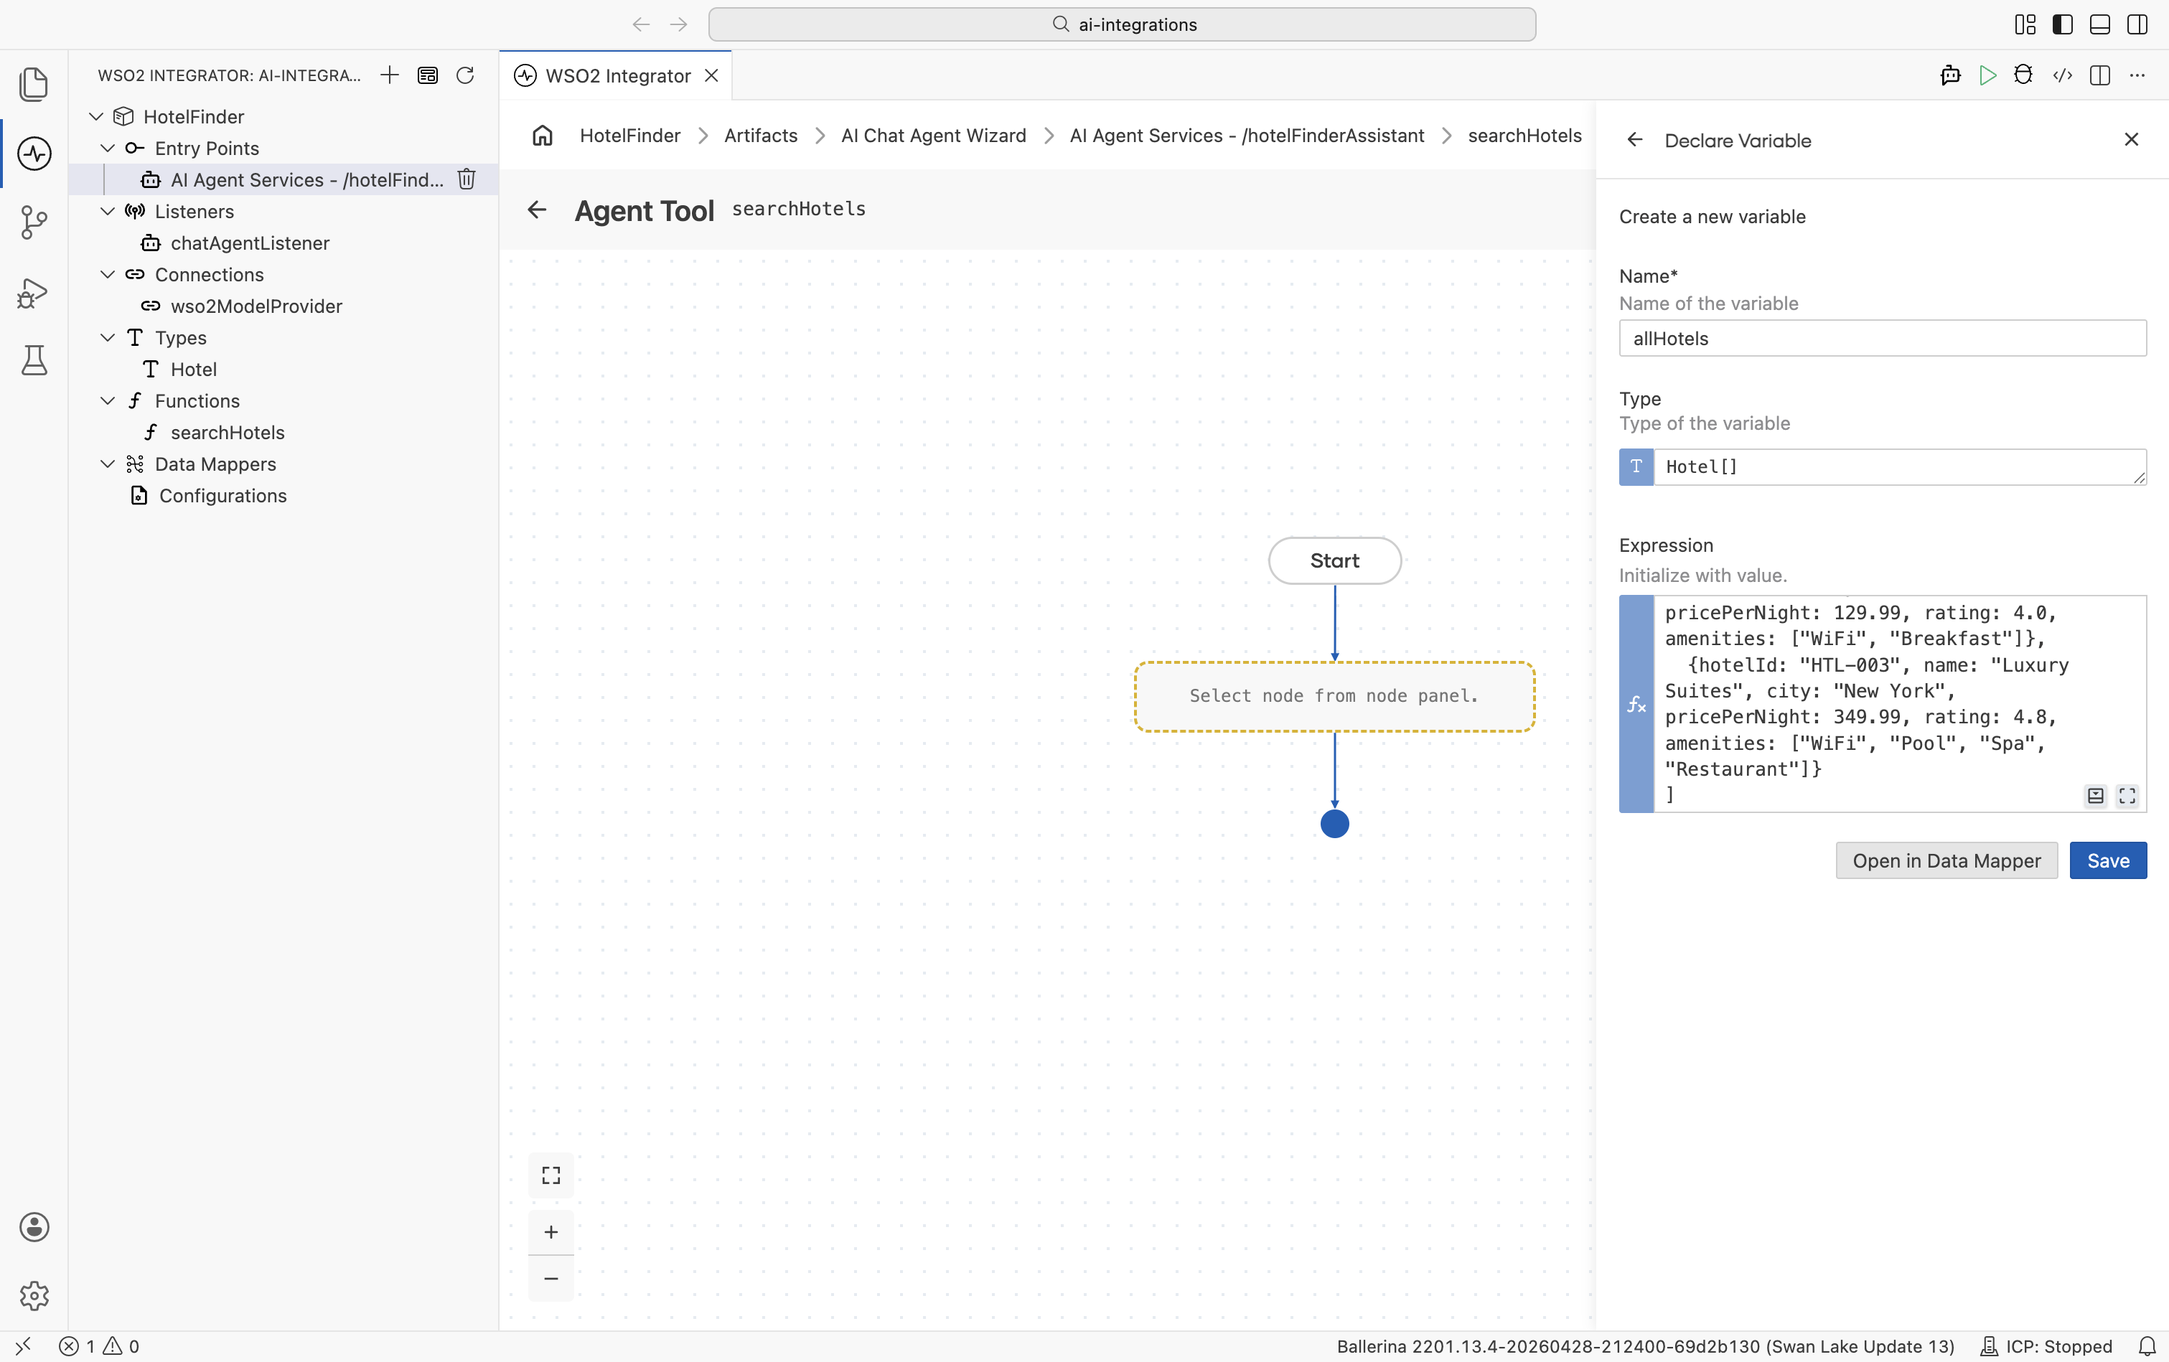
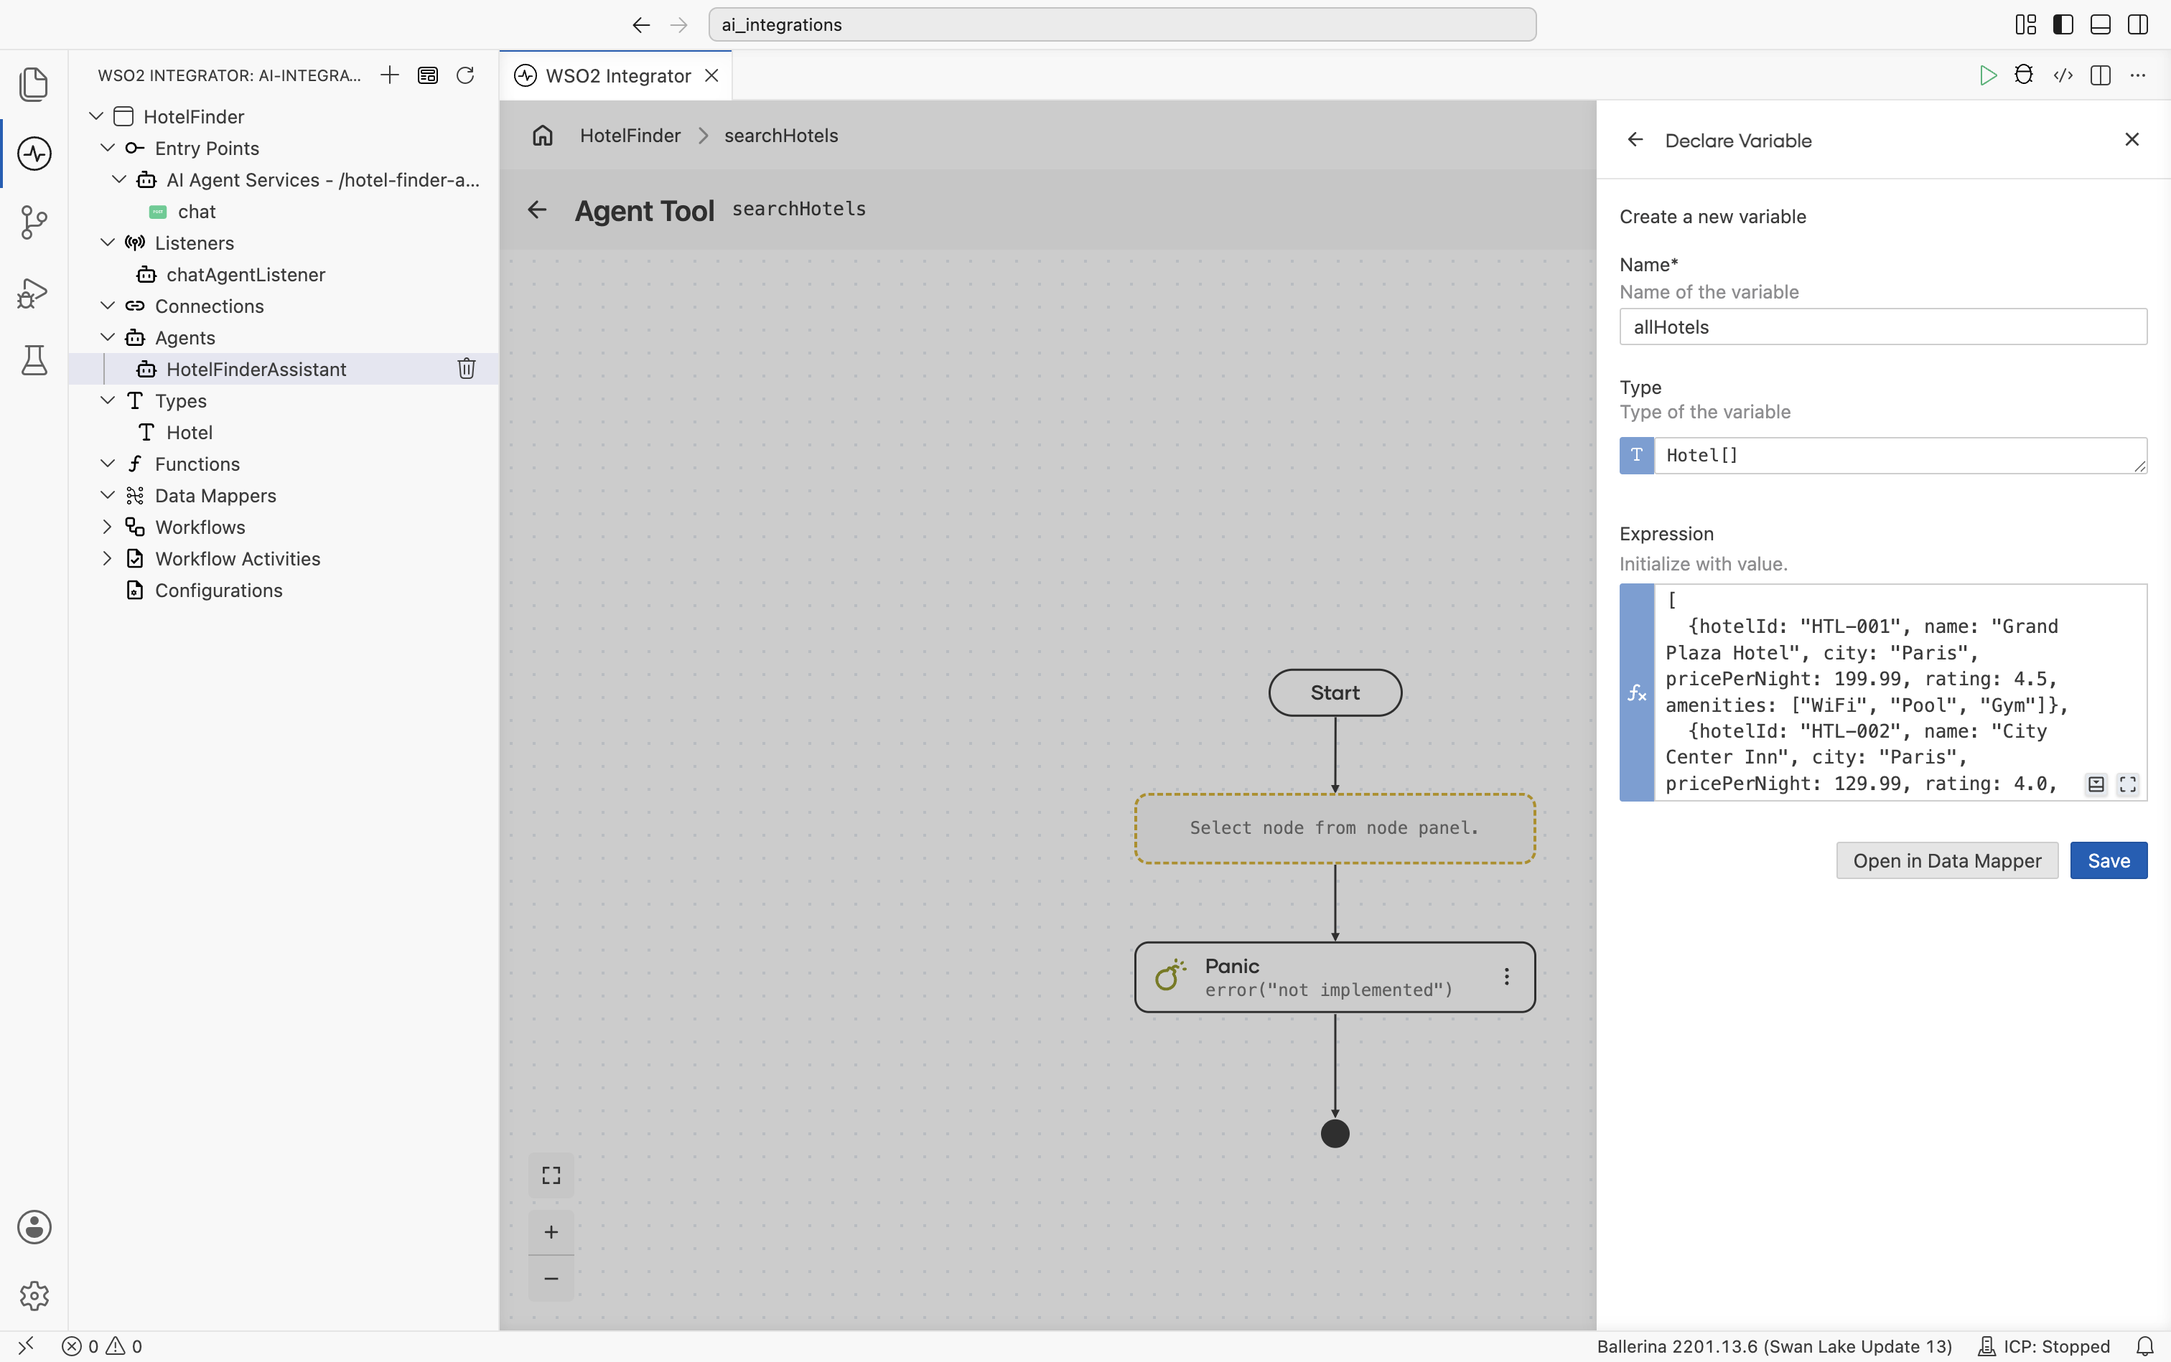
docs(genai): update hotel finder agent quick start for new WSO2 Integrator UI

diff --git a/en/versioned_docs/version-5.0.0/genai/getting-started/build-a-hotel-finder-agent.md b/en/versioned_docs/version-5.0.0/genai/getting-started/build-a-hotel-finder-agent.md
@@ -25,48 +25,28 @@ import TabItem from '@theme/TabItem';
 
 ## Step 1: Create the integration
 
-1. Open WSO2 Integrator.
-2. Select **Create** in the **Create New Integration** card.
-3. Set **Integration Name** to `HotelFinder`.
-4. Set **Project Name** as `AI-Integrations`.
-5. Select **Create Integration**.
+1. Open WSO2 Integrator and select **Create** under **Create a Project**.
+2. Set **Project name** to `AI-Integrations` and choose a **Location**.
+3. Under **What do you want to build?**, keep **Integration** selected.
+4. Set **Integration name** to `HotelFinder`.
+5. Select **Create**.
 
 <ThemedImage
-    alt="Create Integration form with Integration Name set to HotelFinder and Project Name set to AI-Integrations"
+    alt="Create a Project form with Project name set to AI-Integrations, the Integration option selected, and Integration name set to HotelFinder"
     sources={{
         light: useBaseUrl('/img/genai/getting-started/build-a-hotel-finder-agent/01-create-integration.png'),
         dark: useBaseUrl('/img/genai/getting-started/build-a-hotel-finder-agent/01-create-integration.png'),
     }}
 />
 
-## Step 2: Add an AI chat agent
+## Step 2: Add and configure an AI chat agent
 
-1. In the design view, select **+ Add Artifact**.
-2. Select **AI Chat Agent** under **AI Integration**.
-3. Set **Name** to `HotelFinderAssistant`.
-4. Select **Create**.
+The integration opens on the **Design** tab with the WSO2 Integrator Copilot. Bypass it for this quick start and create the artifact manually.
 
-<ThemedImage
-    alt="AI Chat Agent wizard with Name set to HotelFinderAssistant"
-    sources={{
-        light: useBaseUrl('/img/genai/getting-started/build-a-hotel-finder-agent/02-create-ai-chat-agent.png'),
-        dark: useBaseUrl('/img/genai/getting-started/build-a-hotel-finder-agent/02-create-ai-chat-agent.png'),
-    }}
-/>
-
-:::tip Default model provider
-
-By default, the agent is created with the WSO2 model provider. If you have not [signed in to WSO2 Integrator Copilot](../../develop/copilot/getting-started.md) yet, sign in when prompted. No third-party API key is required.
-
-To use a different LLM instead, see [Model providers](../develop/components/model-providers.md) for the full list of supported providers (OpenAI, Anthropic, Azure OpenAI, and others).
-
-:::
-
-## Step 3: Configure the agent
-
-1. Select the **AI Agent** node in the design canvas.
-2. Set **Role** to `HotelFinderAssistant`.
-3. Set **Instructions** to:
+1. Select **Add Artifact manually**.
+2. On the Artifacts page, select **Chat Agent Service** under **AI Integration**.
+3. Set **Role** to `HotelFinderAssistant`.
+4. Set **Instructions** to:
 
    ```plain
    You are a friendly hotel finder assistant.
@@ -83,21 +63,52 @@ To use a different LLM instead, see [Model providers](../develop/components/mode
    - Show hotels clearly with price, rating, and key amenities.
    ```
 
-4. Select **Save**.
+5. Keep **Model** as **Default WSO2 Model Provider**.
 
 <ThemedImage
-    alt="AI Agent configuration panel with Role and Instructions filled in"
+    alt="Create Chat Agent Service form with Role and Instructions filled in and Model set to Default WSO2 Model Provider"
     sources={{
-        light: useBaseUrl('/img/genai/getting-started/build-a-hotel-finder-agent/03-configure-agent.png'),
-        dark: useBaseUrl('/img/genai/getting-started/build-a-hotel-finder-agent/03-configure-agent.png'),
+        light: useBaseUrl('/img/genai/getting-started/build-a-hotel-finder-agent/02-create-ai-chat-agent.png'),
+        dark: useBaseUrl('/img/genai/getting-started/build-a-hotel-finder-agent/02-create-ai-chat-agent.png'),
     }}
 />
 
-## Step 4: Add the `searchHotels` tool
+:::tip Default model provider
+
+By default, the agent is created with the WSO2 model provider. If you have not [signed in to WSO2 Integrator Copilot](../../develop/copilot/getting-started.md) yet, sign in when prompted. No third-party API key is required.
+
+To use a different LLM instead, see [Model providers](../develop/components/model-providers.md) for the full list of supported providers (OpenAI, Anthropic, Azure OpenAI, and others).
+
+:::
+
+6. Leave **Maximum Iterations**, **Verbose**, **Tool Loading Strategy**, and **Execute Tool Calls In Parallel** at their defaults.
+7. Set **Agent Name** to `HotelFinderAssistant`.
+8. Set **Service Base Path** to expose the chat service, for example `/hotel-finder-assistant`.
+9. Select **Create**.
+
+<ThemedImage
+    alt="Bottom of the Create Chat Agent Service form with Agent Name set to HotelFinderAssistant and Service Base Path set to /hotel-finder-assistant"
+    sources={{
+        light: useBaseUrl('/img/genai/getting-started/build-a-hotel-finder-agent/03-name-and-expose-agent.png'),
+        dark: useBaseUrl('/img/genai/getting-started/build-a-hotel-finder-agent/03-name-and-expose-agent.png'),
+    }}
+/>
+
+This creates an **AI Agent Service** with a `POST /chat` resource and a `chatAgentListener`, plus the `HotelFinderAssistant` agent under **Agents**. Select **HotelFinderAssistant** under **Agents** to open its canvas: the **AI Agent** node is connected to the model provider, with a `+` button at its bottom-right corner for adding tools.
+
+<ThemedImage
+    alt="AI Agent node for HotelFinderAssistant connected to the model provider, with an Add Memory button and a + icon for adding tools"
+    sources={{
+        light: useBaseUrl('/img/genai/getting-started/build-a-hotel-finder-agent/03b-ai-agent-canvas.png'),
+        dark: useBaseUrl('/img/genai/getting-started/build-a-hotel-finder-agent/03b-ai-agent-canvas.png'),
+    }}
+/>
+
+## Step 3: Add the `searchHotels` tool
 
 ### Create the `searchHotels` tool
 
-1. Select the **+** button on the **AI Agent** node.
+1. Select the **+** button at the bottom-right corner of the **AI Agent** node.
 2. Select **Create Custom Tool**.
 3. Set **Name** to `searchHotels`.
 4. Set **Description** to `Searches for hotels in a city`.
@@ -125,7 +136,7 @@ To use a different LLM instead, see [Model providers](../develop/components/mode
    c. Select **Save**.
 
 <ThemedImage
-    alt="Create New Type dialog open over the Create New Agent Tool form, with Kind set to Record and Name set to Hotel, showing all six fields"
+    alt="Create New Type dialog open over the Create Custom Tool form, with Kind set to Record and Name set to Hotel, showing all six fields"
     sources={{
         light: useBaseUrl('/img/genai/getting-started/build-a-hotel-finder-agent/04-create-hotel-type.png'),
         dark: useBaseUrl('/img/genai/getting-started/build-a-hotel-finder-agent/04-create-hotel-type.png'),
@@ -136,10 +147,12 @@ To use a different LLM instead, see [Model providers](../develop/components/mode
 
 8. Set **Description** (return value) to `Hotels available in the city`.
 
-9. Select **Create**.
+9. Optionally leave **Requires Approval** unchecked. Enabling it pauses the tool before it runs and waits for human approval.
+
+10. Select **Create Tool**.
 
 <ThemedImage
-    alt="Completed Create New Agent Tool form for searchHotels showing the city parameter, Hotel[] return type, and return description"
+    alt="Completed Create Custom Tool form for searchHotels showing the city parameter, Hotel[] return type, and return description"
     sources={{
         light: useBaseUrl('/img/genai/getting-started/build-a-hotel-finder-agent/05-create-search-hotels-tool.png'),
         dark: useBaseUrl('/img/genai/getting-started/build-a-hotel-finder-agent/05-create-search-hotels-tool.png'),
@@ -148,9 +161,9 @@ To use a different LLM instead, see [Model providers](../develop/components/mode
 
 ### Build the `searchHotels` logic
 
-The tool's visual flow opens. Add the logic:
+The tool now shows as a node connected to the agent. Select it to open its flow. New tools open with a placeholder: **Start** connected to a **Panic** node (`error("not implemented")`). Replace it with the real logic:
 
-1. Select the **+** button and select **Declare Variable** under **Statement**. Set **Name** to `allHotels` and **Type** to `Hotel[]`. Set the **Expression** to the following hotel array and select **Save**:
+1. Select **+** on the connector between **Start** and **Panic**, then select **Declare Variable** under **Statement**. Set **Name** to `allHotels` and **Type** to `Hotel[]`. Set the **Expression** to the following hotel array and select **Save**:
 
    ```ballerina
    [
@@ -198,11 +211,17 @@ The tool's visual flow opens. Add the logic:
     }}
 />
 
-## Step 5: Add the `checkAvailability` tool
+:::note
+
+The visual designer currently leaves the placeholder `panic error("not implemented")` statement in place after the node you add. It becomes unreachable once your `Return` is in the flow, so it's safe to delete from the pro-code view; leaving it in doesn't affect the build.
+
+:::
+
+## Step 4: Add the `checkAvailability` tool
 
 ### Create the `checkAvailability` tool
 
-1. Navigate back to the **AI Chat Agent** view.
+1. Navigate back to the **HotelFinderAssistant** agent canvas.
 2. Select **+** on the **AI Agent** node and choose **Create Custom Tool**.
 3. Set **Name** to `checkAvailability`.
 4. Set **Description** to `Checks whether a hotel has rooms available between two dates`.
@@ -242,10 +261,10 @@ The tool's visual flow opens. Add the logic:
 
 8. Set **Description** (return value) to `Availability result with total price and nights`.
 
-9. Select **Create**.
+9. Select **Create Tool**.
 
 <ThemedImage
-    alt="Completed checkAvailability tool form showing hotelId, checkIn, checkOut parameters, Availability return type, and return description"
+    alt="Completed checkAvailability tool form showing hotelId, checkIn, checkOut parameters, Availability return type, and return description, with searchHotels already connected to the agent"
     sources={{
         light: useBaseUrl('/img/genai/getting-started/build-a-hotel-finder-agent/10-create-check-availability-tool.png'),
         dark: useBaseUrl('/img/genai/getting-started/build-a-hotel-finder-agent/10-create-check-availability-tool.png'),
@@ -254,7 +273,7 @@ The tool's visual flow opens. Add the logic:
 
 ### Build the `checkAvailability` logic
 
-In the tool's visual flow, select **+** and select **Return** under **Control**. Set **Expression** to the following and select **Save**:
+Open the tool's flow. Select **+** on the connector between **Start** and **Panic**, select **Return** under **Control**, set **Expression** to the following, and select **Save**:
 
 ```ballerina
 {
@@ -283,23 +302,23 @@ This returns hardcoded sample data. In a real scenario, you would query a bookin
 After both tools are created, the agent shows them connected in the design canvas.
 
 <ThemedImage
-    alt="AI Chat Agent design view showing the agent node connected to searchHotels and checkAvailability tools with the system prompt visible"
+    alt="AI Agent design view showing the agent node connected to searchHotels and checkAvailability tools with the system prompt visible"
     sources={{
         light: useBaseUrl('/img/genai/getting-started/build-a-hotel-finder-agent/12-agent-with-tools.png'),
         dark: useBaseUrl('/img/genai/getting-started/build-a-hotel-finder-agent/12-agent-with-tools.png'),
     }}
 />
 
-## Step 6: Run and test
+## Step 5: Run and test
 
 1. Select **Run**.
-2. Select **Chat**.
+2. Once the integration compiles and starts, select **Chat** on the `chat` resource.
 3. Type `Show me hotels in Paris` to check if it works.
 
-The agent calls `searchHotels` and returns matching options. Continue the conversation using the same session to check availability.
+The agent calls `searchHotels` and returns the matching Paris options (`Grand Plaza Hotel` and `City Center Inn`, not `Luxury Suites`, which is in New York). Continue the conversation in the same chat session to check availability.
 
 <ThemedImage
-    alt="Agent Chat panel showing the user asking for hotels in Paris, with the agent responding with Grand Plaza Hotel, City Center Inn, and Luxury Suites options"
+    alt="Agent Chat panel showing the user asking for hotels in Paris, with the agent responding with Grand Plaza Hotel and City Center Inn and asking for check-in and check-out dates"
     sources={{
         light: useBaseUrl('/img/genai/getting-started/build-a-hotel-finder-agent/13-run-and-test.png'),
         dark: useBaseUrl('/img/genai/getting-started/build-a-hotel-finder-agent/13-run-and-test.png'),
@@ -332,19 +351,9 @@ type Availability record {|
 |};
 ```
 
-<h2> Step 2: Configure the model provider </h2>
+<h2> Step 2: Define tools and create the agent </h2>
 
-Create a file named `connections.bal` to initialize the model provider:
-
-```ballerina
-import ballerina/ai;
-
-final ai:Wso2ModelProvider wso2ModelProvider = check ai:getDefaultModelProvider();
-```
-
-<h2> Step 3: Define tools and create the agent </h2>
-
-Create a file named `agents.bal`. Each tool is an `isolated` function annotated with `@ai:AgentTool`. The LLM uses the summary line and `+ param - description` lines from the Ballerina doc comment to decide when and how to call the tool.
+Create a file named `agents.bal`. Each tool is an `isolated` function annotated with `@ai:AgentTool`. The LLM uses the summary line and `+ param - description` lines from the Ballerina doc comment to decide when and how to call the tool. The model provider is initialized inline with `ai:getDefaultModelProvider()`, so no separate connections file is needed for the default WSO2 model provider.
 
 :::note
 
@@ -355,7 +364,7 @@ Both tools use hardcoded sample data. In a real scenario, you would call externa
 ```ballerina
 import ballerina/ai;
 
-final ai:Agent hotelFinderAssistantAgent = check new (
+final ai:Agent HotelFinderAssistant = check new (
     systemPrompt = {
         role: string `HotelFinderAssistant`,
         instructions: string `You are a friendly hotel finder assistant.
@@ -370,7 +379,7 @@ Tool usage:
 
 Presentation:
 - Show hotels clearly with price, rating, and key amenities.`
-    }, model = wso2ModelProvider, tools = [searchHotels, checkAvailability]
+    }, model = check ai:getDefaultModelProvider(), tools = [searchHotels, checkAvailability]
 );
 
 # Searches for hotels in a city
@@ -404,7 +413,7 @@ isolated function checkAvailability(string hotelId, string checkIn, string check
 }
 ```
 
-<h2> Step 4: Expose the agent as a chat service </h2>
+<h2> Step 3: Expose the agent as a chat service </h2>
 
 Create a file named `main.bal`. The `ai:Listener` provides session-scoped chat memory. Pass the `sessionId` into `agent.run(...)` and the runtime retrieves and updates the conversation history for that session automatically.
 
@@ -414,15 +423,15 @@ import ballerina/http;
 
 listener ai:Listener chatAgentListener = new (listenOn = check http:getDefaultListener());
 
-service /hotelFinderAssistant on chatAgentListener {
+service /hotel\-finder\-assistant on chatAgentListener {
     resource function post chat(@http:Payload ai:ChatReqMessage request) returns ai:ChatRespMessage|error {
-        string stringResult = check hotelFinderAssistantAgent.run(request.message, sessionId = request.sessionId);
+        string stringResult = check HotelFinderAssistant.run(request.message, request.sessionId);
         return {message: stringResult};
     }
 }
 ```
 
-<h2> Step 5: Run and test </h2>
+<h2> Step 4: Run and test </h2>
 
 Run the project:
 
@@ -433,13 +442,13 @@ bal run
 Have a multi-turn conversation. Use the same `sessionId` across requests so the agent remembers context:
 
 ```bash
-# Turn 1 — search for hotels
-curl -X POST http://localhost:9090/hotelFinderAssistant/chat \
+# Turn 1: search for hotels
+curl -X POST http://localhost:9090/hotel-finder-assistant/chat \
   -H "Content-Type: application/json" \
   -d '{"sessionId": "guest-42", "message": "Show me hotels in Paris"}'
 
-# Turn 2 — refer back to an earlier result
-curl -X POST http://localhost:9090/hotelFinderAssistant/chat \
+# Turn 2: refer back to an earlier result
+curl -X POST http://localhost:9090/hotel-finder-assistant/chat \
   -H "Content-Type: application/json" \
   -d '{"sessionId": "guest-42", "message": "Can you check the City Center Inn from March 20 to March 23?"}'
 ```
